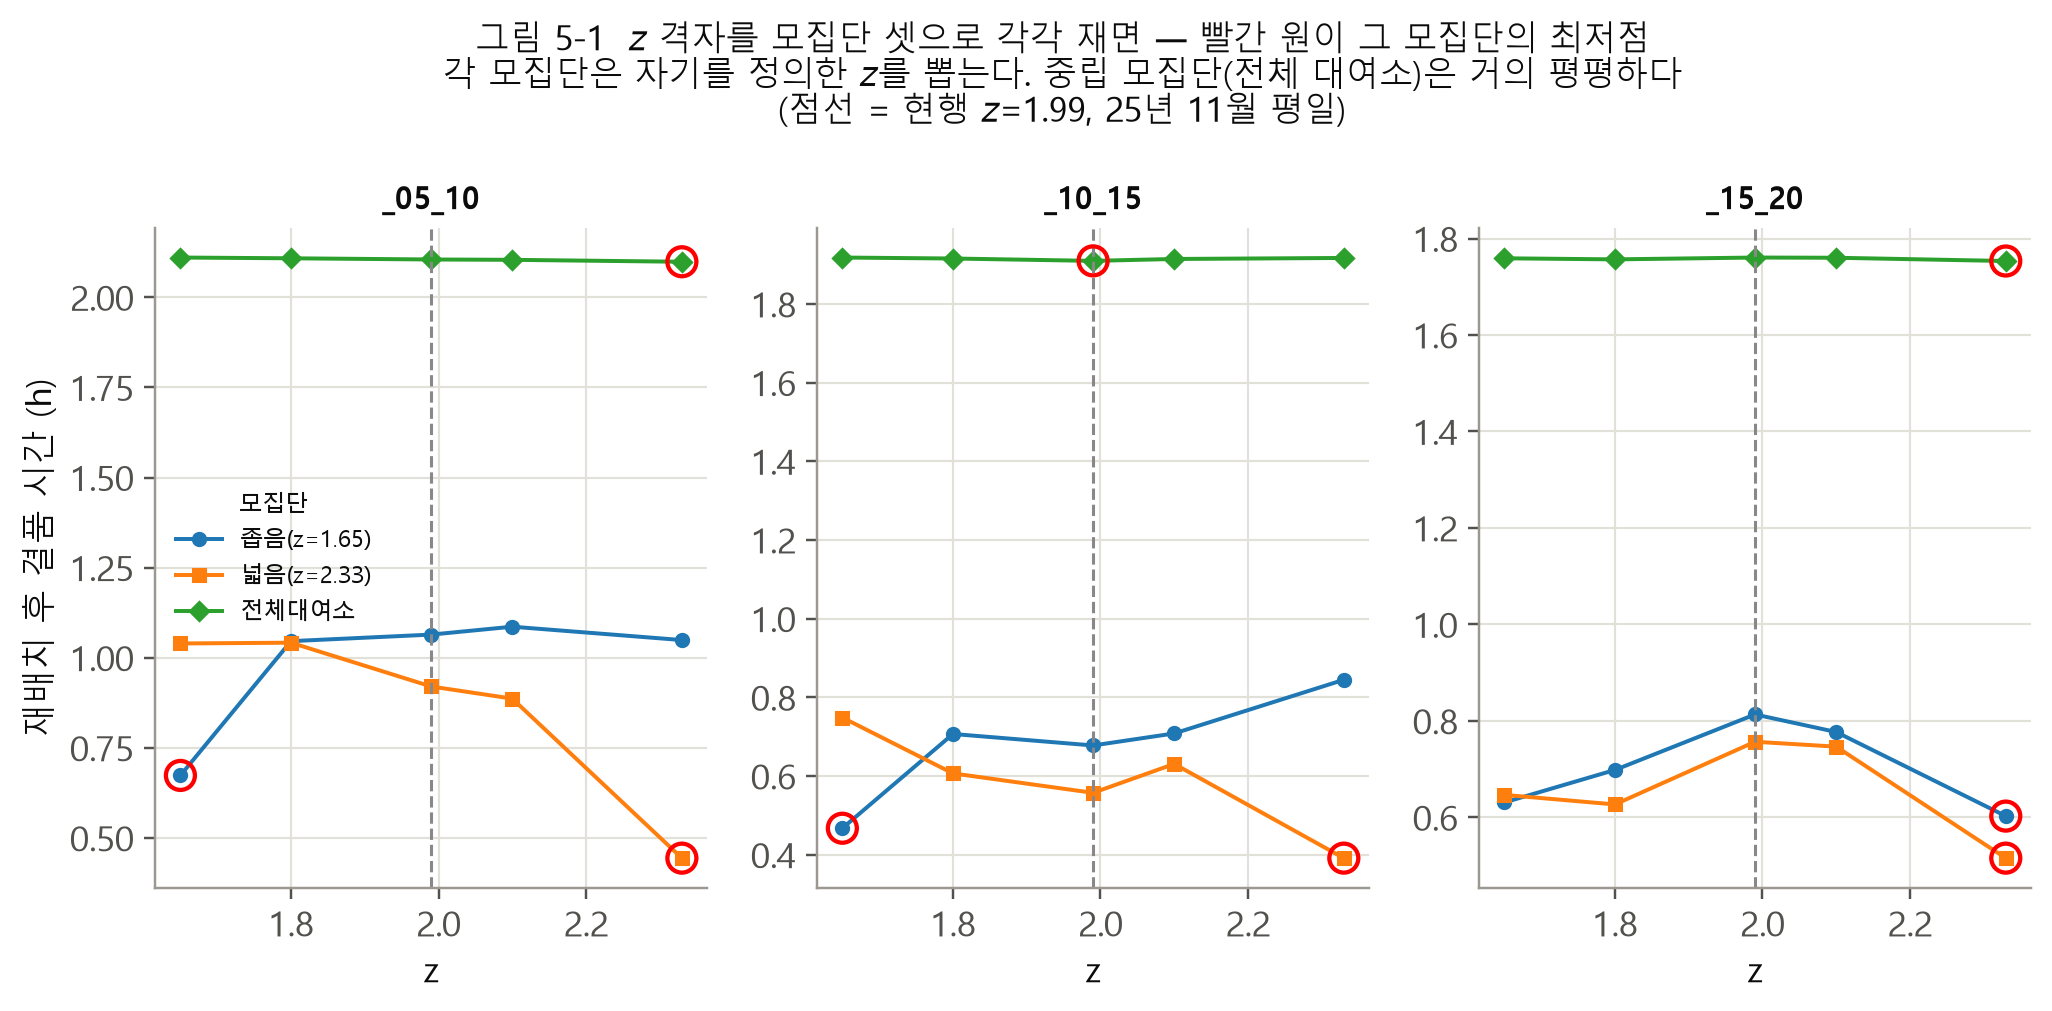
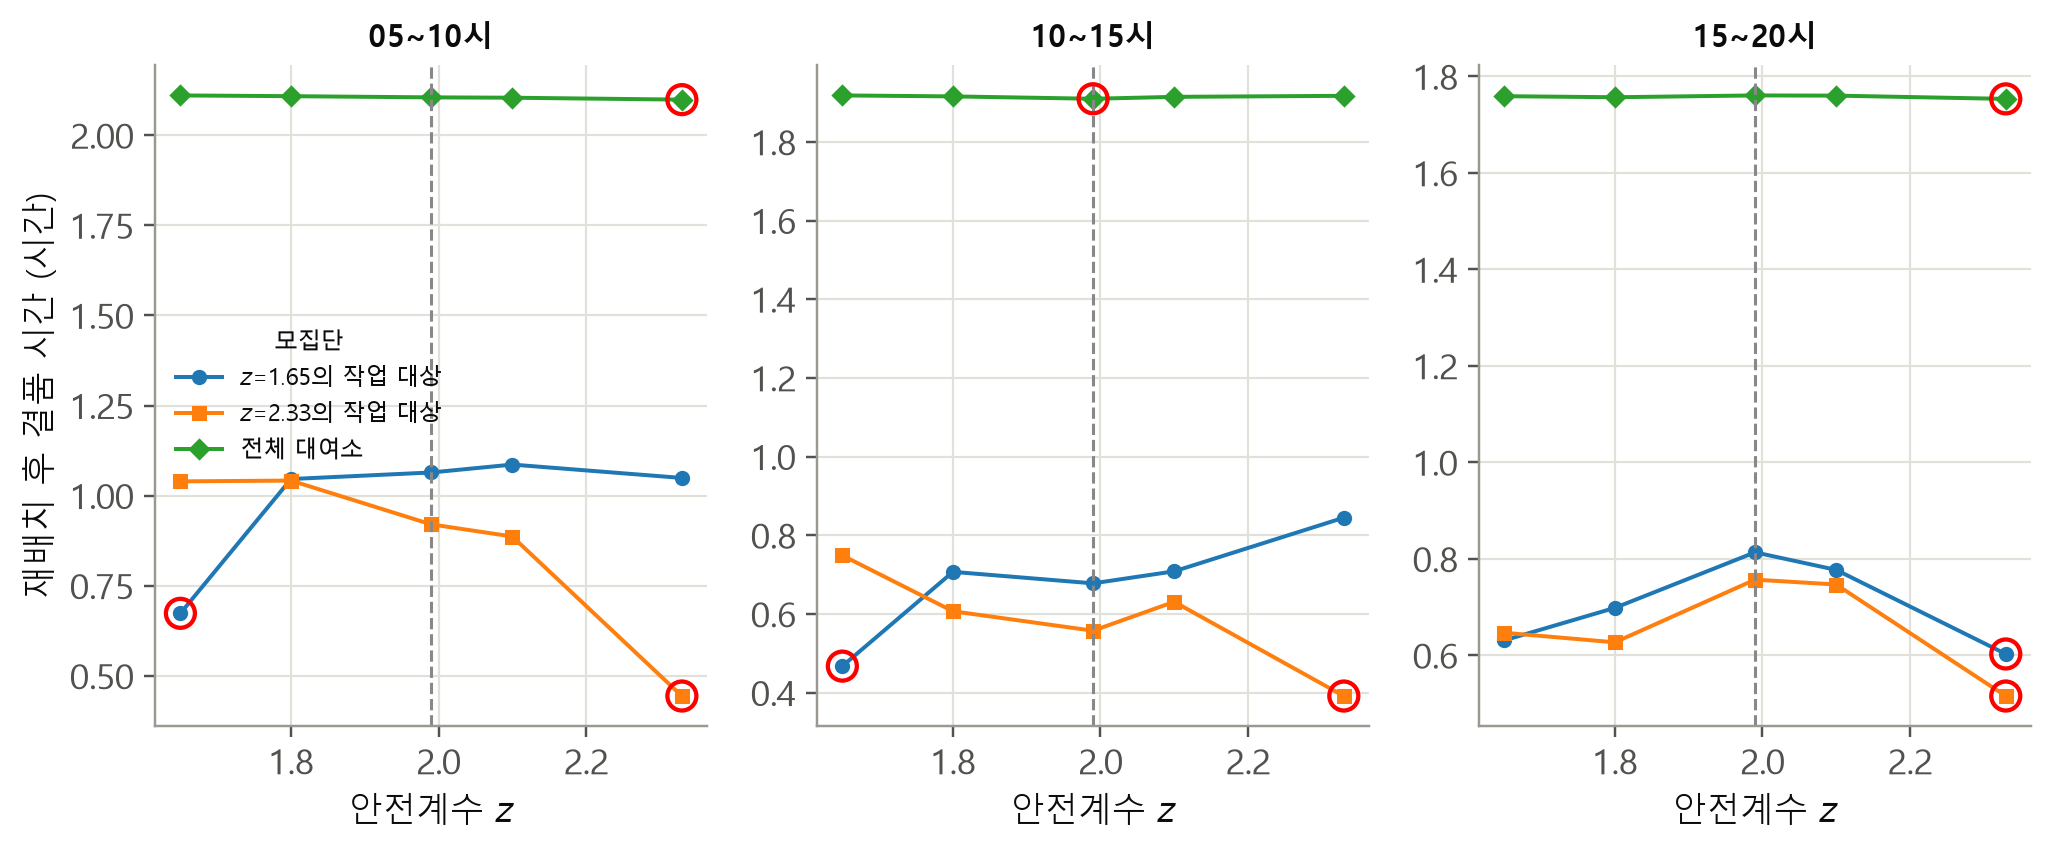
261014 집 PC에서 [그림 5-1]을 다시 그렸다 - 그림 속 제목과 '_05_10' 표기가 빠졌다. [그림 3-5]는 다시 그려도 픽셀까지 같았다
1.26.366이 남긴 집 PC 몫이다(원천 CSV와 도로 패널이 이 PC에만 있다). 5-1은 코드만 고쳐져 있던 것을
그렸다 - 패널 제목이 05~10시, 축이 '시간', 범례가 'z=1.65의 작업 대상'으로 바뀌고 값은 같다. 본문 5장의
캡션 · 설명과 맞는다. 3-5는 F=320.4초 · v=32.11km/h(12일 · 4,607구간)로 10-07 판과 같아 바꾸지 않았다.

회사 PC가 메모리 때문에 돌리지 못한 전체 테스트를 여기서 돌렸다 - 1,308개 통과 · 2개 건너뜀(1.26.371 뒤 1,310개).
정합성 검사 0건.

diff --git a/docs/기록/TODO.md b/docs/기록/TODO.md
@@ -22,7 +22,7 @@
 | | 과제 | 어디에 |
 | --- | --- | --- |
 | 🟡 | **저장된 계획 표의 기본 실행을 `raw19`로 못박을지 — 결정 대기 (2026-10-14)** — 재고 스냅샷의 기본은 정본으로 못박았지만(1.26.371), 저장된 계획을 읽는 실험은 그대로 `db.latest_label()`이나 제 라벨을 쓴다: `budget_enforce` · `budget_split`(`ilp_plan`), `min_qty_sweep` · `top_limit_sweep`(`rebalance_plan`), `broken_collect`(`vrp_plan`), `pick_feasibility`(`pick_drop`), `dockless_hub`(`CANON_LABEL` = 옛 코드가 푼 계획). 원고는 이 표들을 `2026-08-11 real raw19`(kind=experiment)로 읽으므로 같은 정본 라벨로 묶으면 **옛 코드의 계획을 읽는다**. 기본을 `raw19`로 못박을지, 그대로 두고 명령마다 라벨을 적을지 정해야 한다. `budget_enforce` · `top_limit_sweep` · `budget_split`의 `latest_label(conn, "station_info")`(종류 없이 — 그 실행의 좌표를 읽는 폴백)도 함께 본다 | [experiments/README](../../experiments/README.md) · EXPERIMENTS 머리말 |
-| 🟡 | **논문 그림 — 다시 만들고 남은 셋 (2026-10-13, 1.26.366)** — ① **[그림 5-1] · [그림 3-5]는 집 PC에서 다시 그린다** — 5-1은 코드만 고쳤고(그림 안 제목 · `_05_10` 표기) 원천 CSV의 새 판이 집 PC에만 있다. 3-5도 도로 패널이 그곳에 있다 (`python tools/make_thesis_figures.py --only 5-1,3-5`). ② **그림의 글자 크기 — 키워야 한다(2026-10-14 조사, 착수는 사용자 답 대기)** — 그림 25장 중 23장이 본문 폭(132mm)에서 가장 작은 글자 3.7 ~ 5.6pt, 화면 캡처는 2.5 ~ 5pt다(기준: 본문 10pt에 맞춰 그림 안 7 ~ 9pt, 최소 6pt — 학과 양식에는 규정 없음). 그림을 9 ~ 11인치로 그려 절반으로 줄이는 구조 때문이라, 최종 폭(5.2인치) · 300dpi · 기본 글자 8 ~ 9pt로 그리고 그림 20장의 크기 · 배치를 손본다. 화면 캡처는 760px 폭으로 찍어 잘라 싣는다. ③ ~~비 오는 날의 안내 문구~~ → **✅ 원고가 맞았다 (2026-10-14, 1.26.371)** — 셋은 같은 정의(weather_impact ②)이고 화면 *40~55%* · WEATHER ②의 −45 ~ −61%는 깎인 12개월(08-25) 값이었다. 회사 PC에서 다시 돌려 원본 19개월(날씨 14개월)로 **−38.4 ~ −59.1%** — 원고 *38~59%* 와 같다. 화면을 *평소의 41~62%* 로 고쳤다(WEATHER 4장 상자). 남은 것: [그림 4-6]에 옛 문구가 찍혀 있다 — 비 오는 날 다시 찍는다. 표의 제목 · 단위 · 주에 대한 지적도 반영하지 않았다 | [버전관리 1.26.366](버전관리.md) · [사람이_할_일](사람이_할_일.md) 0장 |
+| 🟡 | **논문 그림 — 다시 만들고 남은 셋 (2026-10-13, 1.26.366)** — ① ~~[그림 5-1] · [그림 3-5]는 집 PC에서 다시 그린다~~ → **✅ 다시 그렸다 (2026-10-14, 집 PC)** — 5-1은 그림 안 제목이 빠지고 `_05_10` → *05~10시* · 범례가 *z=1.65의 작업 대상* 으로 바뀌었다(값은 같다). 3-5는 다시 그려도 픽셀까지 같았다 — 이미 최신이었다(F=320.4초 · v=32.11km/h, 12일 · 4,607구간). ② **그림의 글자 크기 — 키워야 한다(2026-10-14 조사, 착수는 사용자 답 대기)** — 그림 25장 중 23장이 본문 폭(132mm)에서 가장 작은 글자 3.7 ~ 5.6pt, 화면 캡처는 2.5 ~ 5pt다(기준: 본문 10pt에 맞춰 그림 안 7 ~ 9pt, 최소 6pt — 학과 양식에는 규정 없음). 그림을 9 ~ 11인치로 그려 절반으로 줄이는 구조 때문이라, 최종 폭(5.2인치) · 300dpi · 기본 글자 8 ~ 9pt로 그리고 그림 20장의 크기 · 배치를 손본다. 화면 캡처는 760px 폭으로 찍어 잘라 싣는다. ③ ~~비 오는 날의 안내 문구~~ → **✅ 원고가 맞았다 (2026-10-14, 1.26.371)** — 셋은 같은 정의(weather_impact ②)이고 화면 *40~55%* · WEATHER ②의 −45 ~ −61%는 깎인 12개월(08-25) 값이었다. 회사 PC에서 다시 돌려 원본 19개월(날씨 14개월)로 **−38.4 ~ −59.1%** — 원고 *38~59%* 와 같다. 화면을 *평소의 41~62%* 로 고쳤다(WEATHER 4장 상자). 남은 것: [그림 4-6]에 옛 문구가 찍혀 있다 — 비 오는 날 다시 찍는다. 표의 제목 · 단위 · 주에 대한 지적도 반영하지 않았다 | [버전관리 1.26.366](버전관리.md) · [사람이_할_일](사람이_할_일.md) 0장 |
 | 🟡 | **문서 최신화가 고치지 않고 올린 것 (2026-10-13)** — ▶ **2026-10-14: 코드 쪽 여섯 중 넷은 결함이 맞아 고쳤고(1.26.371), 낡은 코드 주석도 고쳤다. 둘(웹 기본 host · `.vscode` 추적)은 결정 대기 — 본문 절.** 코드 전체를 읽어 문서 35개 · 263곳을 맞췄다. 과거 기록 · 측정값 · 항목의 상태 · 코드의 주석은 건드리지 않고 올리기만 했다(약 150건). 이 가운데 **코드 쪽 결함일 수 있는 것 여섯** — `tools/reproduce.py`가 본 DB에 행을 남길 수 있다 · `gate_a_rerun.ps1`의 두 작업에 `--period`가 없다 등 — 은 읽기로만 확인했다 | 색인 바로 아래의 같은 이름 절 |
 | 🔴 | **이 PC가 메모리 압박을 받으면 재고 수집이 틱을 잃는다 — 2026-10-13에 11:40 · 11:50 · 12:00 · 12:20을 잃었다** — 회사 PC(수집 PC)에서 상한 격자 재측정과 복원 대 관측 재계산을 **겹쳐** 뒤에서 돌리는 동안 수집기가 실행 시간 제한 5분을 세 번 넘겨 중지됐다(작업 결과 267014 · 로그에 줄이 남지 않는다 · `--status`에는 결측으로만 보인다). 같은 시각 다른 프로젝트의 개발 서버 · 빌드가 11:36~11:49에 차례로 떠 메모리가 바닥이었고(여유 0.7~1.5GB, 커밋 40 / 43GB, node 52개가 18GB) 내 계산이 그 위에 얹혔다 — 내 계산이 끝난 뒤의 12:10 틱은 2분 45초 만에 들어왔으나 **12:20 틱은 내 계산 없이도 잃었다**(주된 원인은 메모리 압박이고 내 계산이 얼마나 보탰는지는 가르지 못한다. 그 뒤의 틱은 `python tools/collect_stock.py --status`로 본다). **지킬 것:** ① 이 PC에서는 무거운 계산(재고 시계열을 통째로 읽는 `observed_stockout` · 격자 실험 · 전체 테스트)을 **둘 이상 겹치지 않는다** ② 돌리기 전에 메모리 여유와 직전 틱(`collect_log.csv` 끝 줄)을 보고, 도는 동안 정각 틱이 10여 초 안에 찍히는지 본다 ③ 틱이 늦으면 내 계산부터 멈춘다. **열려 있는 것:** 수집기가 굶을 때 스스로 알리는 장치가 없다(중지된 실행은 실패로도 안 찍힌다) — 실행 시간 제한을 늘릴지 · 수집기 우선순위를 올릴지는 정하지 않았다 | [버전관리 1.26.363](버전관리.md) ⑤ · [COLLECTOR.md](../구현/COLLECTOR.md) |
 | ✅ | **[닫음 — 2026-10-08, 원고에 넣었다]** 사용자 결정 *'권고대로'*: <표 6-3>에 실은 대수와 옮긴 대수(= 끝낸 대수)를 나란히 싣고, 6.3 · 6.4 · 9.2 · 초록의 *'적게 옮기고도'* 를 *'같은 거리로 더 많이 옮기고'* 로, 8.2 · 6.6 · 9.3의 4.5%를 9.2%로, 6.1 · 4.7의 *두 표* 를 셋으로 고쳤다. 6.3에는 싣고 돌아온 자전거가 그리디의 포화에 섞이는 몫을 *재지 않았다* 는 단서도 달았다 — 그 크기를 잴지는 열려 있다. 아래는 닫기 전 기록 — **옮긴 대수가 수거 기준이었다 — 원고의 그리디 대수와 '4.5%'를 어떻게 적을지 (2026-10-08, 1.26.338)** — 점검에서 파이프라인 · 실험이 옮긴 대수를 pick 합으로만 세는 것을 고쳤다(끝낸 대수 = min(실은 것, 내린 것), 스킬 함정 13). 같은 규칙으로 재니 ① <표 6-3>의 그리디(B1)는 337 · 232 · 256대를 **실어** 248 · 182 · 213대만 내렸다(예산 120분에 끊겨 싣고 돌아온다) — 제안 방법 301 · 209 · 216대보다 *많이* 가 아니라 **적게** 옮겼다(합 643 대 726대, −11% — 회차별 −18 · −13 · −1%). 6.4 *"12% 적게 옮기고도"* · 9.2 · 초록의 *"적게 옮기고도"* 가 걸린다. ② 8.2 · 6.6 · 9.3의 예산 강제 **4.5%(33/726)는 9.2%(67/726)** 다 — 싣고 돌아온 34대가 빠져 있었다. 결품 · 포화 · 이동거리 · 유의확률은 그대로다. **정할 것:** 원고 표에 실은 대수와 끝낸 대수를 함께 실을지 · 서술을 어떻게 고칠지. **19개월로도 쟀다(같은 날):** 원고의 249 대 220대는 그대로 나오고(실은 대수), 끝낸 대수는 그리디 **199.7대** 대 제안 220.4대 — 그리디가 9% 적다(171개 조합 전부에서 싣고 돌아오고, 164개에서 제안 방법보다 적게 끝낸다 · 회차별 p가 4.5×10⁻¹⁰ 이하). 이동거리는 거의 같아(402 대 406km) *'적게 옮기고도'* 가 아니라 *'같은 거리로 더 많이 끝내고'* 다. 곁다리로 **<표 6-4>의 열두 값이 환경 A에서 한 자리까지 같다** — 6.1 · 4.7의 *두 표* 를 셋으로 적을 수 있다(EXPERIMENTS 30장). 원고는 건드리지 않았다. | [버전관리 1.26.338](버전관리.md) · `baseline_compare.py`의 `bikes_done` · `budget_enforce.py` |
